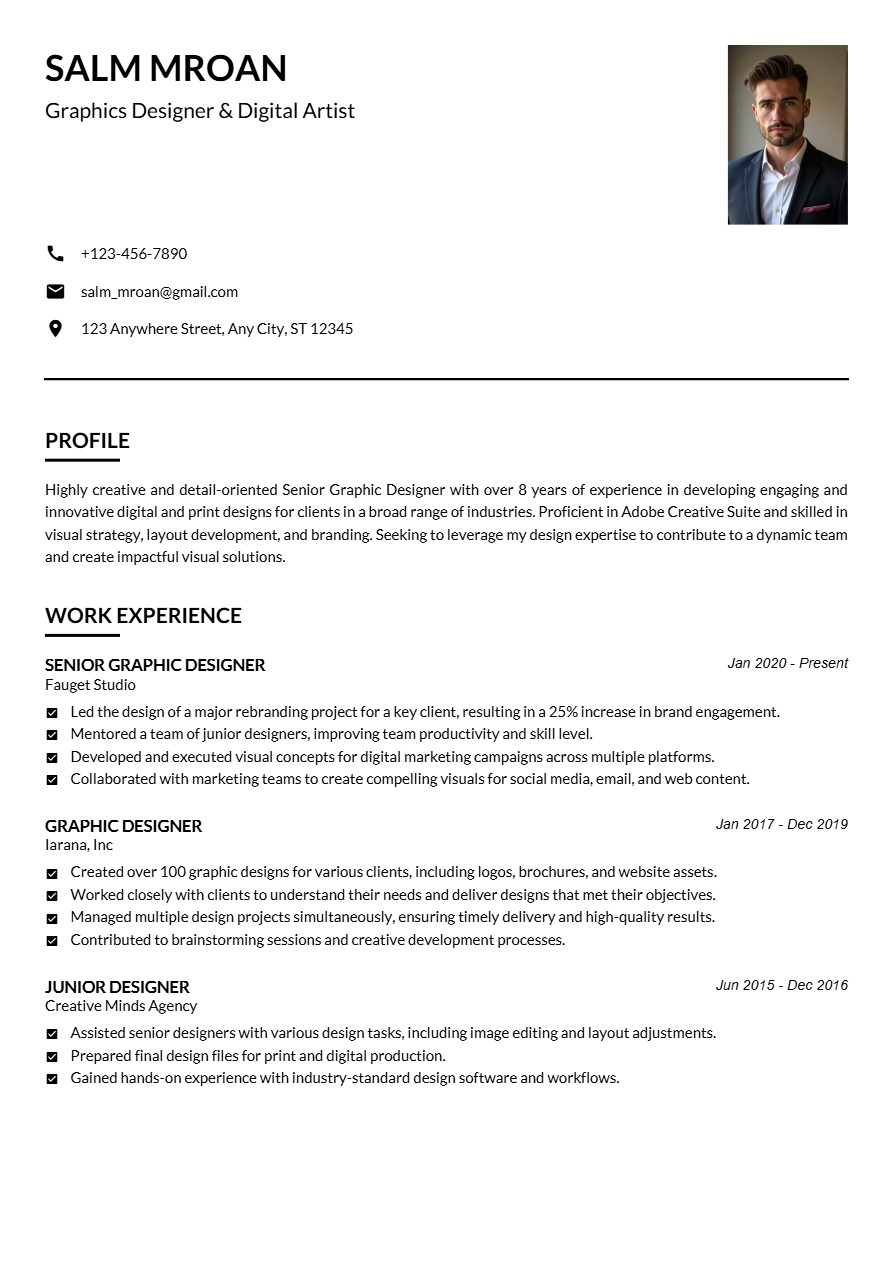
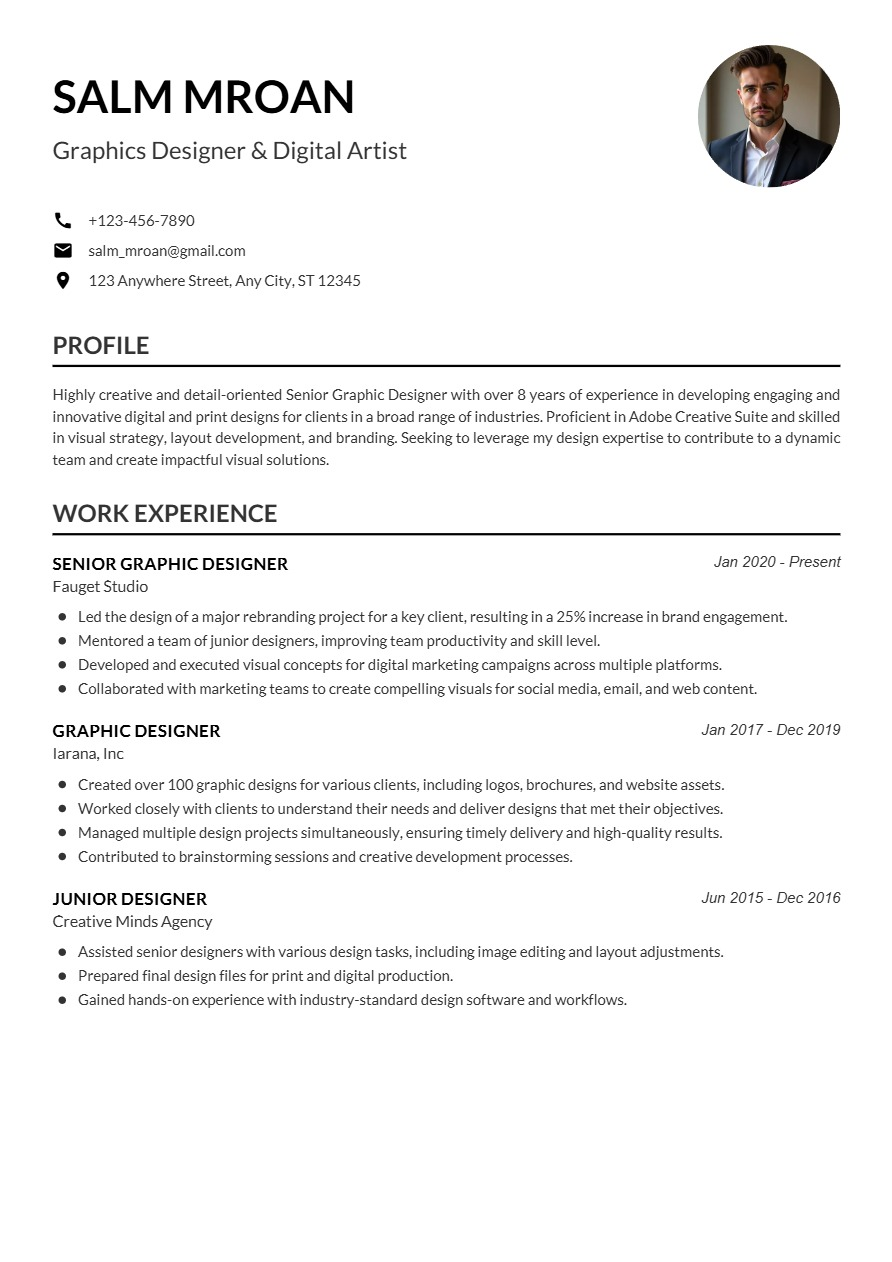
1

diff --git a/lib/features/3_cv_presentation/pdf_generation/cv_designs/formal_single_column/layout_formal_single_column.dart b/lib/features/3_cv_presentation/pdf_generation/cv_designs/formal_single_column/layout_formal_single_column.dart
@@ -27,7 +27,8 @@ class FormalSingleColumnLayout extends PdfTemplateLayout {
   });
 
   @override
-  final pw.EdgeInsets margin = const pw.EdgeInsets.all(30);
+  final pw.EdgeInsets margin =
+      const pw.EdgeInsets.only(top: 30, left: 35, right: 35, bottom: 30);
 
   @override
   pw.Widget build(pw.Context context) {
@@ -36,7 +37,7 @@ class FormalSingleColumnLayout extends PdfTemplateLayout {
       crossAxisAlignment: pw.CrossAxisAlignment.start,
       children: [
         _buildHeader(theme),
-        pw.SizedBox(height: 10), // <-- تعديل: تقليل المسافة
+        pw.SizedBox(height: 15),
         _buildContactBar(theme),
 
         // Main content sections
@@ -75,7 +76,7 @@ class FormalSingleColumnLayout extends PdfTemplateLayout {
         pw.SizedBox(width: 24),
         if (profileImage != null)
           pw.SizedBox(
-            width: 95, // <-- تعديل: حجم الصورة الدائرية
+            width: 95,
             height: 95,
             child: pw.ClipOval(
               child: pw.Image(profileImage, fit: pw.BoxFit.cover),
@@ -89,7 +90,6 @@ class FormalSingleColumnLayout extends PdfTemplateLayout {
     return pw.Column(
         crossAxisAlignment: pw.CrossAxisAlignment.start,
         children: [
-          pw.SizedBox(height: 10),
           if (data.personalInfo.phone != null &&
               data.personalInfo.phone!.isNotEmpty)
             ContactInfoLine(
@@ -121,7 +121,7 @@ class FormalSingleColumnLayout extends PdfTemplateLayout {
     return pw.Column(
       crossAxisAlignment: pw.CrossAxisAlignment.start,
       children: [
-        pw.SizedBox(height: 15),
+        pw.SizedBox(height: 20),
         FormalSectionHeader(title: 'PROFILE', theme: theme),
         pw.Text(
           data.personalInfo.summary,
@@ -137,7 +137,7 @@ class FormalSingleColumnLayout extends PdfTemplateLayout {
     return pw.Column(
       crossAxisAlignment: pw.CrossAxisAlignment.start,
       children: [
-        pw.SizedBox(height: 15),
+        pw.SizedBox(height: 20),
         FormalSectionHeader(title: 'WORK EXPERIENCE', theme: theme),
         ...data.experiences.map((exp) =>
             _FormalExperienceItem(exp, iconFont: iconFont, theme: theme)),
@@ -200,9 +200,11 @@ class _FormalExperienceItem extends pw.StatelessWidget {
                   crossAxisAlignment: pw.CrossAxisAlignment.start,
                   children: [
                     pw.Text(
-                      experience.position.toUpperCase(),
+                      experience.position
+                          .toUpperCase(), // <-- تعديل: ليتطابق مع الصورة
                       style: theme.experienceTitleStyle,
                     ),
+                    pw.SizedBox(height: 2), // <-- تعديل: مسافة صغيرة
                     pw.Text(
                       experience.companyName,
                       style: theme.experienceCompanyStyle,

diff --git a/lib/features/3_cv_presentation/pdf_generation/cv_designs/formal_single_column/theme_formal_single_column.dart b/lib/features/3_cv_presentation/pdf_generation/cv_designs/formal_single_column/theme_formal_single_column.dart
@@ -6,6 +6,7 @@ import 'package:pdf/widgets.dart' as pw;
 PdfTemplateTheme formalSingleColumnTheme() {
   const darkText = PdfColors.black;
   const lightText = PdfColors.white;
+  const subtleText = PdfColor.fromInt(0xFF333333);
 
   return PdfTemplateTheme(
     primaryColor: darkText,
@@ -13,13 +14,16 @@ PdfTemplateTheme formalSingleColumnTheme() {
     lightTextColor: lightText,
     darkTextColor: darkText,
 
-    // Main title styles
+    // Main title styles for header
     h1: pw.TextStyle(
-        fontSize: 28, fontWeight: pw.FontWeight.bold, color: darkText),
-    h2: const pw.TextStyle(fontSize: 16, color: darkText),
+        fontSize: 30, // <-- تعديل: زيادة كبيرة في حجم الاسم
+        fontWeight: pw.FontWeight.bold,
+        color: darkText),
+    h2: const pw.TextStyle(
+        fontSize: 16, color: subtleText), // <-- تعديل: حجم أقل ووزن عادي
 
     // Body text styles
-    body: const pw.TextStyle(fontSize: 9.5, lineSpacing: 3, color: darkText),
+    body: const pw.TextStyle(fontSize: 10, lineSpacing: 2.5, color: subtleText),
     subtitle: pw.TextStyle(
         fontSize: 10, fontStyle: pw.FontStyle.italic, color: darkText),
 
@@ -29,17 +33,22 @@ PdfTemplateTheme formalSingleColumnTheme() {
 
     // Experience styles
     experienceTitleStyle: pw.TextStyle(
-        fontSize: 11, fontWeight: pw.FontWeight.bold, color: darkText),
-    experienceCompanyStyle: const pw.TextStyle(fontSize: 10, color: darkText),
+        // <-- تعديل: ليكون بأحرف كبيرة
+        fontSize: 11,
+        fontWeight: pw.FontWeight.bold,
+        color: darkText,
+        letterSpacing: 0.5),
+    experienceCompanyStyle:
+        const pw.TextStyle(fontSize: 10.5, color: subtleText),
     experienceDateStyle: pw.TextStyle(
-        fontSize: 9.5, fontStyle: pw.FontStyle.italic, color: darkText),
+        fontSize: 10, fontStyle: pw.FontStyle.italic, color: subtleText),
 
     // Education styles
     educationTitleStyle: pw.TextStyle(
         fontSize: 11, fontWeight: pw.FontWeight.bold, color: darkText),
-    educationSchoolStyle: const pw.TextStyle(fontSize: 10, color: darkText),
+    educationSchoolStyle: const pw.TextStyle(fontSize: 10.5, color: subtleText),
     educationDateStyle: pw.TextStyle(
-        fontSize: 9.5, fontStyle: pw.FontStyle.italic, color: darkText),
+        fontSize: 10, fontStyle: pw.FontStyle.italic, color: subtleText),
 
     // Reference styles
     referenceNameStyle:
